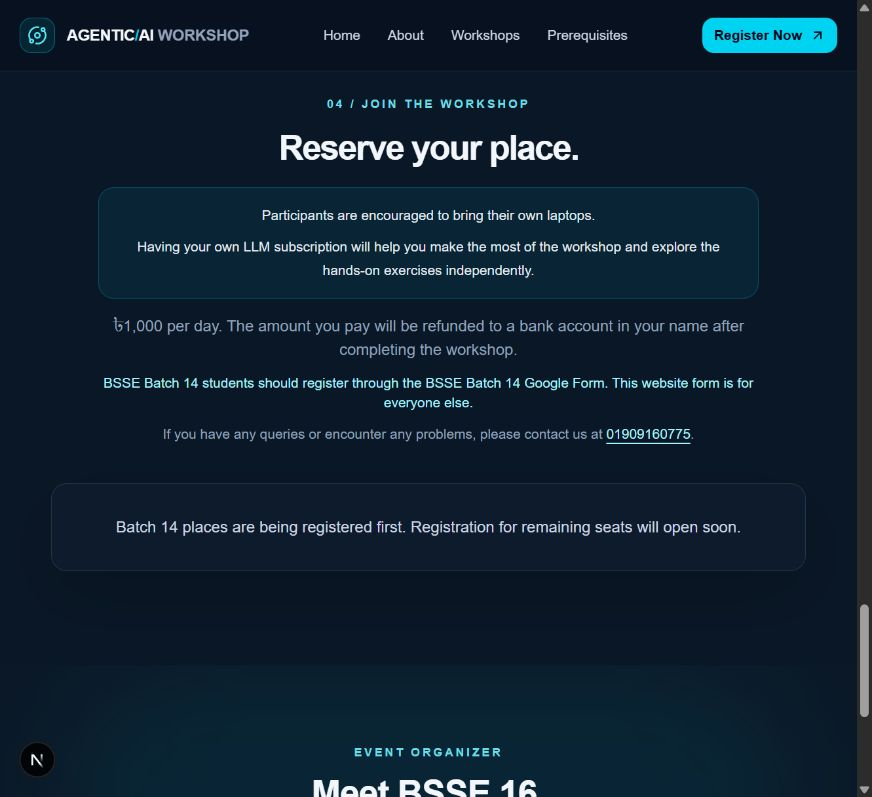
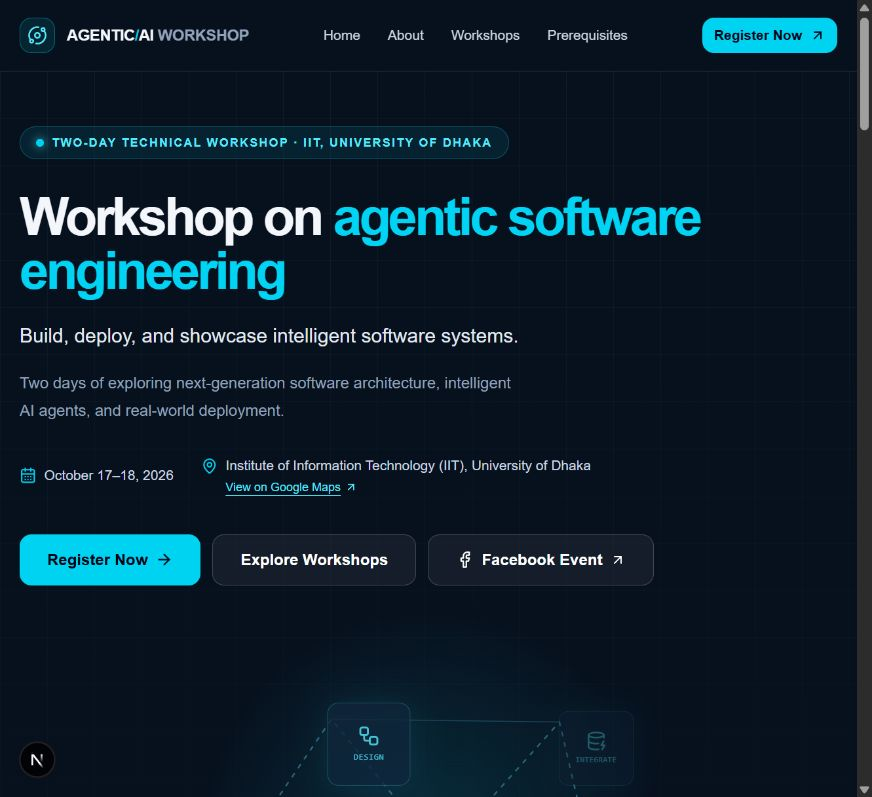
Added facebook event

diff --git a/src/app/page.tsx b/src/app/page.tsx
@@ -1,4 +1,4 @@
-import { ArrowRight, CalendarDays, Code2, Boxes, Rocket, Check, Terminal } from "lucide-react";
+import { ArrowRight, ArrowUpRight, CalendarDays, Code2, Boxes, Rocket, Check, Terminal, Facebook } from "lucide-react";
 import Image from "next/image";
 import { Navigation } from "@/components/navigation";
 import { VenueLink } from "@/components/venue-link";
@@ -40,7 +40,7 @@ export default async function HomePage() {
       <p className="mt-5 max-w-lg text-base leading-7 text-slate-400">Two days of exploring next-generation software architecture, intelligent AI agents, and real-world deployment.</p>
       <div className="mt-8 flex flex-wrap gap-x-7 gap-y-3 text-sm text-slate-300"><span className="flex items-center gap-2"><CalendarDays size={17} className="text-cyan-400"/>{EVENT_DATES}</span><VenueLink venue={settings.venue}/></div>
       {registeredCount !== null && <p className="mt-5 inline-flex rounded-full border border-cyan-400/30 bg-cyan-400/8 px-4 py-2 text-sm font-semibold text-cyan-200">{registeredCount.toLocaleString("en-US")} total registrations</p>}
-      <div className="mt-10 flex flex-wrap gap-3"><Button asChild size="lg"><a href="#register">{atCapacity ? "Registration Full" : "Register Now"} <ArrowRight size={18}/></a></Button><Button asChild size="lg" variant="outline"><a href="#workshops">Explore Workshops</a></Button></div></div><HeroVisual/>
+      <div className="mt-10 flex flex-wrap gap-3"><Button asChild size="lg"><a href="#register">{atCapacity ? "Registration Full" : "Register Now"} <ArrowRight size={18}/></a></Button><Button asChild size="lg" variant="outline"><a href="#workshops">Explore Workshops</a></Button><Button asChild size="lg" variant="outline"><a href="https://www.facebook.com/events/1573871584046810/?active_tab=about" target="_blank" rel="noopener noreferrer"><Facebook size={18}/> Facebook Event <ArrowUpRight size={16}/></a></Button></div></div><HeroVisual/>
     </div></section>
     <section aria-label="Event collaborators" className="relative overflow-hidden border-b border-white/10 bg-[#0a1726]"><div className="pointer-events-none absolute inset-x-0 top-0 mx-auto h-72 max-w-3xl rounded-full bg-cyan-400/8 blur-3xl"/><div className="site-container relative py-16 md:py-20"><div className="mx-auto max-w-2xl text-center"><p className="section-kicker">The people behind the workshop</p><h2 className="mt-3 text-3xl font-bold tracking-tight md:text-4xl">Built together.</h2></div>
       <div className="mt-12 flex items-center gap-4"><span className="h-px flex-1 bg-gradient-to-r from-transparent to-white/15"/><h3 className="text-center text-xs font-semibold tracking-[.2em] text-slate-400 uppercase">In collaboration with</h3><span className="h-px flex-1 bg-gradient-to-l from-transparent to-white/15"/></div>

diff --git a/INVITATION_COPY.md b/INVITATION_COPY.md
@@ -1,5 +1,21 @@
 # Facebook page and invitation copy
 
+Facebook event: https://www.facebook.com/events/1573871584046810/
+
+## Changes to the existing Facebook event
+
+In the opening paragraph, replace “in collaboration with the Institute of Information Technology and the Project Implementation Unit” with “in collaboration with the Institute of Information Technology (IIT), University of Dhaka, and the Project Implementation Unit”.
+
+Append these venue details to the event description:
+
+Venue: Institute of Information Technology (IIT), University of Dhaka
+
+Google Maps: https://www.google.com/maps/search/?api=1&query=Institute%20of%20Information%20Technology%20%28IIT%29%2C%20University%20of%20Dhaka%2C%20Dhaka%2C%20Bangladesh
+
+The event's existing location field already includes University of Dhaka.
+
+## Reusable invitation
+
 Workshop on agentic software engineering
 
 Build, deploy, and showcase intelligent software systems.
